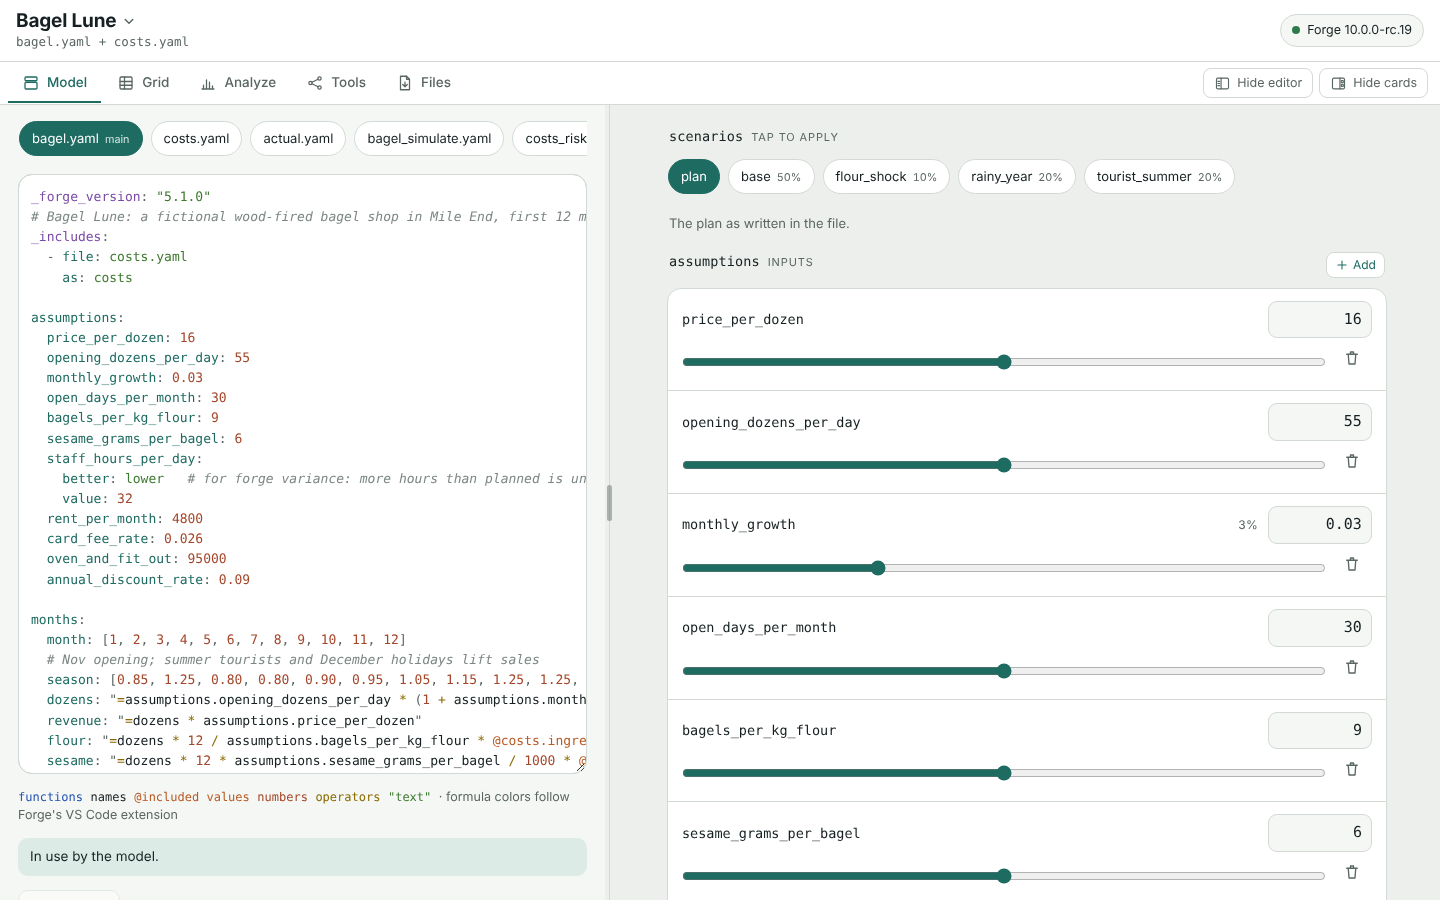
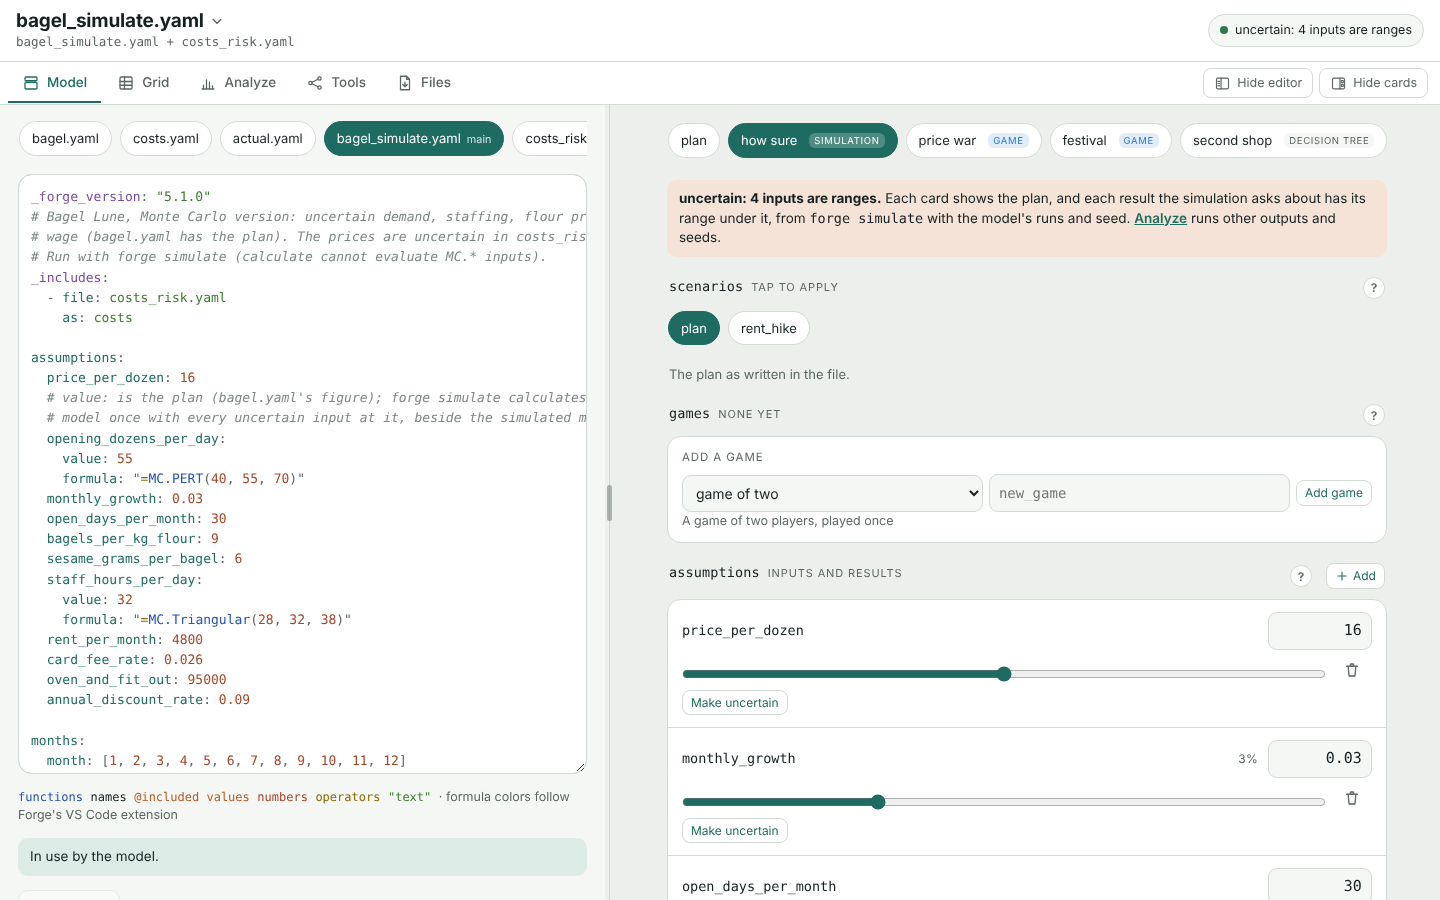
Make the README's Studio screenshots again, on the bagel's uncertain model
studio/screenshots.mjs opens bagel_simulate.yaml, waits for its ranges and
puts the welcome card away; the phone shot shows the plan and the range under
profit, the laptop shot the cards of an uncertain model.

Claude-Session: https://claude.ai/code/session_011rTiQhDwm512SPv7NVZmZZ

diff --git a/CHANGELOG.md b/CHANGELOG.md
@@ -9,7 +9,7 @@ and this project adheres to [Semantic Versioning](https://semver.org/spec/v2.0.0
 
 ### Changed
 
-- **Forge Studio changes a value, a formula, an added or a deleted element with Forge's `edit`** (ADR-075 step 7, roadmap S-EDIT). Studio's own line-by-line YAML editing (`studio/text.js`) is gone: an input typed on a card, a formula, "Add" and "Delete" send `set_value`, `set_formula`, `add` and `delete` to forge-wasm's `edit`, which writes the same bytes (the cases of the old `studio/tests/text.mjs` are held by the tests of `src/edit/text.rs`), keeps a change only when Forge reads the model back with exactly it, and shows its message when it does not. A name added on a card may now be in any alphabet. `studio/text.js` keeps the editor's colours.
+- **Forge Studio changes a value, a formula, an added or a deleted element with Forge's `edit`** (ADR-075 step 7, roadmap S-EDIT). Studio's own line-by-line YAML editing (`studio/text.js`) is gone: an input typed on a card, a formula, "Add" and "Delete" send `set_value`, `set_formula`, `add` and `delete` to forge-wasm's `edit`, which writes the same bytes (the cases of the old `studio/tests/text.mjs` are held by the tests of `src/edit/text.rs`), keeps a change only when Forge reads the model back with exactly it, and shows its message when it does not. A name added on a card may now be in any alphabet. `studio/text.js` keeps the editor\'s colours. The README's screenshots are made again from the bagel's uncertain model (`studio/screenshots.mjs`).
 
 ### Added
 - **Forge adds a game from a template: `insert`, the `templates` tool and "add a game" in Studio** (ADR-075 step 6, ADR-076 step 6, roadmap S-TEMPLATES). Four templates, each a game written as the examples write one, with its numbers to change and a comment on its parts: `game_of_two` (a game of two players, played once), `game_of_many` (many players alike, the count form), `tournament` (the prisoner's dilemma and a tournament of three habits that plays it) and `dynamics` (a population whose strategies spread). `forge edit model.yaml --insert tournament=war`, the `insert` change of `forge_edit` and forge-wasm's `edit` add one after the last game in the indentation the games use, or as a `games:` at the end of a model that has none; a model of an earlier format than 5.5.0 is raised to it (the earlier formats are kept by the later). Without a name the game gets the template's default or the first of `_2`, `_3`, ... that the model does not use; a name the model uses is refused with Forge's message. Forge keeps the change only when it reads the model back valid with the template's games added and nothing else changed. Every template is inserted into every model of the examples. The templates are served by `forge templates` (a name shows its block, `--json` lists them as data), the MCP tool `forge_templates` (the 23rd) and forge-wasm's `templates`. Forge Studio's Model view has "add a game": the templates by Forge's line, a name, Add game; `studio/tests/templates.mjs` checks each against the games `game` answers for the files `edit` wrote. Making inputs uncertain is not a template: it is "Make uncertain" on each input.

diff --git a/README.md b/README.md
@@ -12,9 +12,9 @@
 Forge reads a financial model written in YAML (inputs, formulas, tables, scenarios) and calculates it with 203 Excel-style functions, plus what a spreadsheet leaves to plug-ins: Monte Carlo, tornado charts, decision trees, real options, Bayesian networks, game theory. One engine, written in Rust, runs on the command line, as an MCP server for AI agents, and in your browser.
 
 <p align="center">
-  <a href="https://forge.mollendorff.ai/"><img src="https://raw.githubusercontent.com/mollendorff-ai/forge/main/docs/images/studio-phone.png" alt="Forge Studio on a phone: the bagel example's year, with revenue 386,827.45, profit 786.32 and the formula under each result" width="260"></a>
+  <a href="https://forge.mollendorff.ai/"><img src="https://raw.githubusercontent.com/mollendorff-ai/forge/main/docs/images/studio-phone.png" alt="Forge Studio on a phone: the bagel example's uncertain model, with revenue 386,827.45, profit 786.32 at the plan and its range under it (5th percentile -78.5k, 95th 46.5k), and the formula under each result" width="260"></a>
   &nbsp;
-  <a href="https://forge.mollendorff.ai/"><img src="https://raw.githubusercontent.com/mollendorff-ai/forge/main/docs/images/studio-desktop.png" alt="Forge Studio on a laptop: the YAML model on the left, its inputs as sliders on the right" width="560"></a>
+  <a href="https://forge.mollendorff.ai/"><img src="https://raw.githubusercontent.com/mollendorff-ai/forge/main/docs/images/studio-desktop.png" alt="Forge Studio on a laptop: the uncertain bagel model's YAML on the left, its scenarios, an Add a game card and its inputs as sliders on the right" width="560"></a>
 </p>
 
 | **You work with numbers** | **You build with AI agents** |
